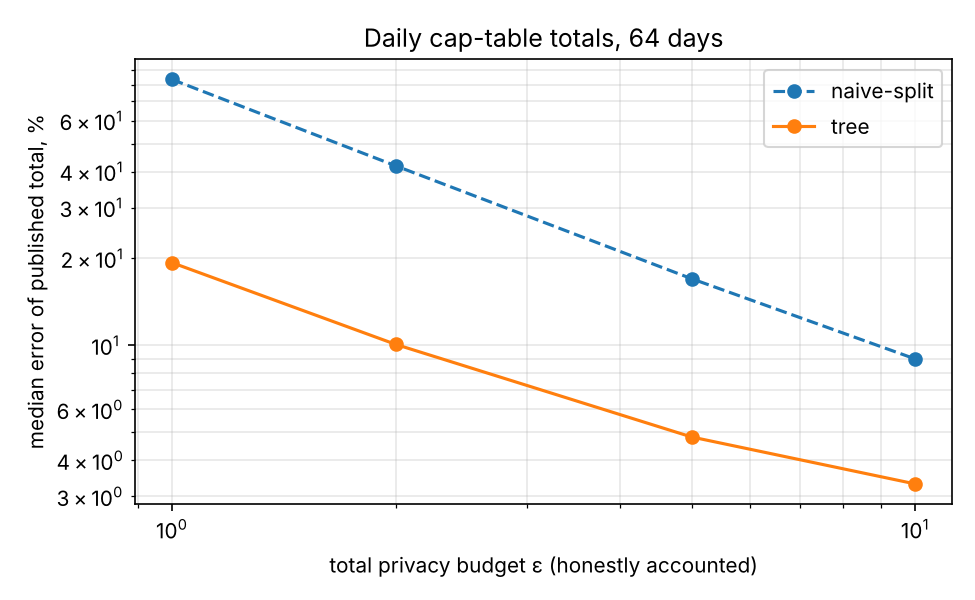
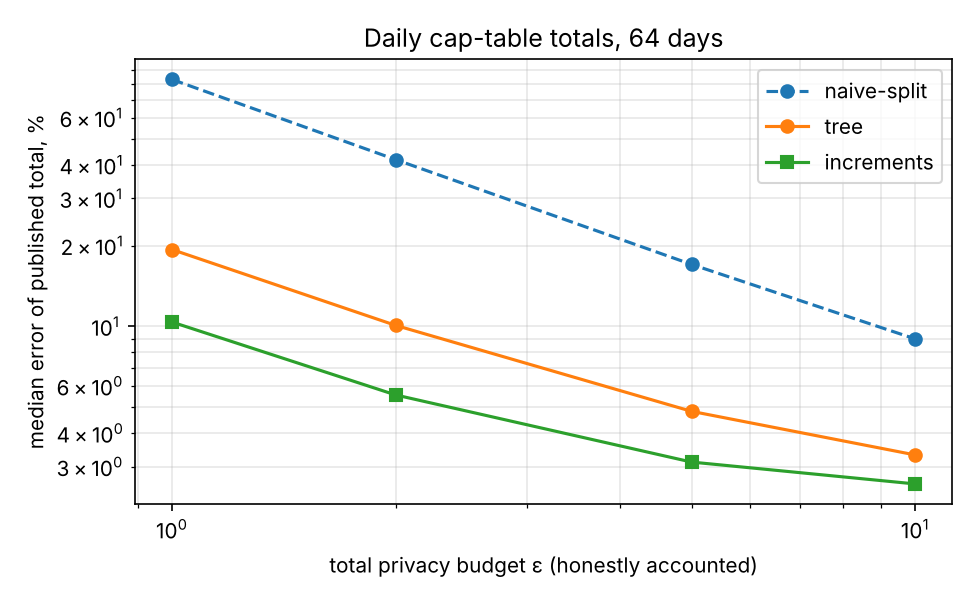
Add increment-noise baseline, horizon sweep and consistent error statistics
- captable: increment_prefix_sums (Lap(C/eps) per daily increment, running sum)
- E6: compare increments with tree and even split; report error in shares
  and against shares issued, since the starting total is public
- E9: stream length 32-2048 days, with shares lost to clipping
- E3: median for both daily and monthly rows, mean reported separately
- E2: 90th-percentile error next to the median
- 4 new tests; README updated with the new findings

Old result columns reproduce exactly (same seeds and draw order).

diff --git a/src/cdp/experiments.py b/src/cdp/experiments.py
@@ -51,7 +51,7 @@ def e2_epsilon_sweep(seeds: int, dealers: int = 3) -> pd.DataFrame:
     for unit in ("trade", "dealer_day"):
         clip = _clip_for(unit)
         for eps in EPSILONS:
-            errs, recs = [], []
+            errs, p90s, recs = [], [], []
             for s in range(seeds):
                 rng = np.random.default_rng(10_000 + s)
                 m = generate(replace(MarketConfig(), dealers=dealers), rng)
@@ -59,27 +59,35 @@ def e2_epsilon_sweep(seeds: int, dealers: int = 3) -> pd.DataFrame:
                 clipped = contrib.sum(axis=1)                                      # (T,)
                 pub = clipped + dp.laplace_noise(clip, eps, rng, size=clipped.shape)  # (T,)
                 truth = m.daily_total                                              # (T,) unclipped
-                errs.append(np.median(np.abs(pub - truth) / truth))
+                rel = np.abs(pub - truth) / truth                                  # (T,)
+                errs.append(np.median(rel))
+                p90s.append(np.quantile(rel, 0.9))
                 est = attacks.coalition_attack(pub, contrib, victim=0)             # (T,)
                 recs.append(attacks.recovery_rate(est, m.dealer_day[:, 0]))       # vs TRUE volume
-            rows.append({"unit": unit, "epsilon": eps, "median_rel_error": np.mean(errs), "victim_recovered": np.mean(recs)})
+            rows.append({"unit": unit, "epsilon": eps, "median_rel_error": np.mean(errs),
+                         "p90_rel_error": np.mean(p90s), "victim_recovered": np.mean(recs)})
     return pd.DataFrame(rows)
 
 
 # --------------------------------------------------------------- E3 granularity
 def e3_granularity(seeds: int, epsilon: float = 1.0) -> pd.DataFrame:
     """Same ε, daily vs monthly release. Monthly sums are ~22x larger; for the trade unit the
-    monthly release uses a larger clip bound (2M), since a month accumulates clipping bias."""
+    monthly release uses a larger clip bound (2M), since a month accumulates clipping bias.
+
+    Both rows report a MEDIAN: daily = median over the 22 days (averaged over markets), monthly =
+    median over markets of the one monthly figure. `mean_rel_error` is the mean of the same errors;
+    for Laplace noise the mean is ~1.44x the median, so never compare a mean with a median."""
     rows = []
     for unit in ("trade", "dealer_day"):
         clip = _clip_for(unit)
-        d_err, m_err = [], []
+        d_err, d_mean, m_err = [], [], []
         for s in range(seeds):
             rng = np.random.default_rng(20_000 + s)
             m = generate(MarketConfig(), rng)
             clipped, truth = dp.clipped_daily_total(m, unit, clip), m.daily_total   # (T,), (T,)
             d_pub = clipped + dp.laplace_noise(clip, epsilon, rng, size=clipped.shape)
             d_err.append(np.median(np.abs(d_pub - truth) / truth))
+            d_mean.append(np.mean(np.abs(d_pub - truth) / truth))
             # monthly: one dealer contributes up to T*clip in dealer-month terms; for "trade" Δ stays clip
             if unit == "trade":
                 m_clip = MONTHLY_TRADE_CLIP
@@ -88,8 +96,8 @@ def e3_granularity(seeds: int, epsilon: float = 1.0) -> pd.DataFrame:
                 m_sum, month_sens = clipped.sum(), clip * m.config.days
             m_pub = m_sum + dp.laplace_noise(month_sens, epsilon, rng)
             m_err.append(abs(m_pub - truth.sum()) / truth.sum())
-        rows.append({"unit": unit, "release": "daily", "median_rel_error": np.mean(d_err)})
-        rows.append({"unit": unit, "release": "monthly", "median_rel_error": np.mean(m_err)})
+        rows.append({"unit": unit, "release": "daily", "median_rel_error": np.mean(d_err), "mean_rel_error": np.mean(d_mean)})
+        rows.append({"unit": unit, "release": "monthly", "median_rel_error": np.median(m_err), "mean_rel_error": np.mean(m_err)})
     return pd.DataFrame(rows)
 
 
@@ -146,18 +154,25 @@ def _publish(mode: str, x: np.ndarray, start: float, eps: float, days: int, rng:
         return truth + dp.laplace_noise(GRANT_CLIP * days, eps, rng, size=truth.shape)
     if mode == "tree":            # honest: binary-tree continual release
         return start + captable.tree_prefix_sums(x, GRANT_CLIP, eps, rng)
+    if mode == "increments":      # honest: noise each day's new shares once, then running sum
+        return start + captable.increment_prefix_sums(x, GRANT_CLIP, eps, rng)
     raise ValueError(mode)
 
 
 def e6_cap_table(seeds: int) -> pd.DataFrame:
     """Daily cap-table totals (64 days). Error of the published total vs share of single-grant days
     whose grant size an attacker recovers within ±10%, with a simple (day-over-day) and a strong
-    (knows all other grants, averages) attack."""
+    (knows all other grants, averages) attack.
+
+    Error is reported three ways, because the 10M starting total is public and inflates the base:
+      median_rel_error       |published - true| / true total
+      median_abs_error       the same error in shares
+      error_vs_issuance      that error in shares / all shares issued during the 64 days"""
     cfg = captable.CapTableConfig()
     rows = []
-    for mode in ("exact", "naive-per-day", "naive-split", "tree"):
+    for mode in ("exact", "naive-per-day", "naive-split", "tree", "increments"):
         for eps in ([1.0] if mode == "exact" else [1.0, 2.0, 5.0, 10.0]):
-            errs, simple, strong = [], [], []
+            errs, abs_errs, issued, simple, strong = [], [], [], [], []
             for s in range(seeds):
                 rng = np.random.default_rng(50_000 + s)
                 daily, one = captable.single_grant_days(cfg, rng)
@@ -165,6 +180,8 @@ def e6_cap_table(seeds: int) -> pd.DataFrame:
                 truth = cfg.initial_shares + np.cumsum(daily)                       # (T,) unclipped
                 pub = _publish(mode, x, cfg.initial_shares, eps, cfg.days, rng, raw=daily)  # (T,)
                 errs.append(np.median(np.abs(pub - truth) / truth))
+                abs_errs.append(np.median(np.abs(pub - truth)))
+                issued.append(daily.sum())
                 diff = attacks.snapshot_diff_attack(pub, cfg.initial_shares)
                 contrib = daily if mode == "exact" else x   # what each grant adds to what was published
                 for t in np.where(one & (daily > 0))[0]:
@@ -177,6 +194,8 @@ def e6_cap_table(seeds: int) -> pd.DataFrame:
                 "eps_claimed": float("inf") if mode == "exact" else eps,
                 "eps_actual": float("inf") if mode == "exact" else (eps * cfg.days if mode == "naive-per-day" else eps),
                 "median_rel_error": np.mean(errs),
+                "median_abs_error": np.mean(abs_errs),
+                "error_vs_issuance": np.mean(abs_errs) / np.mean(issued),
                 "recovered_simple": np.mean(simple),
                 "recovered_strong": np.mean(strong),
             })
@@ -210,6 +229,35 @@ def e7_clipping(seeds: int) -> pd.DataFrame:
             errs.append(np.median(np.abs(pub - truth) / truth))
             bias.append(np.median((truth - clipped) / truth))
         rows.append({"case": "3 dealers, trade unit, eps=1", "clip": C, "median_rel_error": np.mean(errs), "clip_bias": np.mean(bias)})
+    return pd.DataFrame(rows)
+
+
+# --------------------------------------------------------------- E9 horizon
+def e9_horizon(seeds: int, epsilon: float = 5.0) -> pd.DataFrame:
+    """Which honest mechanism for which stream length? Same total ε, same clip bound, T = 32..2048.
+    Also tracks what clipping does to a running total: the cut shares never come back, so the
+    published total drifts further below the true one the longer the feed runs."""
+    rows = []
+    for T in (32, 64, 128, 256, 512, 1024, 2048):
+        cfg = captable.CapTableConfig(days=T)
+        acc = {k: {"rel": [], "abs": []} for k in ("naive-split", "tree", "increments")}
+        issued, cut = [], []
+        for s in range(seeds):
+            rng = np.random.default_rng(60_000 + s)
+            daily, _ = captable.single_grant_days(cfg, rng)
+            x = np.minimum(daily, GRANT_CLIP)
+            truth = cfg.initial_shares + np.cumsum(daily)
+            issued.append(daily.sum())
+            cut.append(daily.sum() - x.sum())
+            for mode in acc:
+                pub = _publish(mode, x, cfg.initial_shares, epsilon, T, rng)
+                acc[mode]["rel"].append(np.median(np.abs(pub - truth) / truth))
+                acc[mode]["abs"].append(np.median(np.abs(pub - truth)))
+        row = {"days": T, "issued_shares": np.mean(issued), "clipped_away_shares": np.mean(cut),
+               "clipped_away_share": np.sum(cut) / np.sum(issued)}
+        for mode, d in acc.items():
+            row[f"{mode}_rel_error"], row[f"{mode}_abs_error"] = np.mean(d["rel"]), np.mean(d["abs"])
+        rows.append(row)
     return pd.DataFrame(rows)
 
 
@@ -259,7 +307,7 @@ def _plot_averaging(df: pd.DataFrame, out: Path) -> None:
 
 def _plot_cap_table(df: pd.DataFrame, out: Path) -> None:
     fig, ax = plt.subplots(figsize=(6.5, 4))
-    for mode, style in (("naive-split", "o--"), ("tree", "o-")):
+    for mode, style in (("naive-split", "o--"), ("tree", "o-"), ("increments", "s-")):
         g = df[df.mechanism == mode]
         ax.plot(g.eps_claimed, g.median_rel_error * 100, style, label=mode)
     ax.set(xscale="log", yscale="log", xlabel="total privacy budget ε (honestly accounted)",
@@ -268,6 +316,21 @@ def _plot_cap_table(df: pd.DataFrame, out: Path) -> None:
     ax.grid(alpha=0.3, which="both")
     fig.tight_layout()
     fig.savefig(out / "fig4_cap_table.png", dpi=150)
+    plt.close(fig)
+
+
+def _plot_horizon(df: pd.DataFrame, out: Path) -> None:
+    fig, ax = plt.subplots(figsize=(6.5, 4))
+    for mode, style in (("naive-split", "o--"), ("tree", "o-"), ("increments", "s-")):
+        ax.plot(df.days, df[f"{mode}_abs_error"] / 1e3, style, label=mode)
+    ax.plot(df.days, df.clipped_away_shares / 1e3, "k:", label="shares cut by clipping (bias)")
+    ax.set(xscale="log", yscale="log", xlabel="days in the stream", ylabel="thousand shares",
+           title="Cap table, ε = 5: median error of the running total")
+    ax.set_xticks(df.days, [str(d) for d in df.days])
+    ax.legend()
+    ax.grid(alpha=0.3, which="both")
+    fig.tight_layout()
+    fig.savefig(out / "fig5_horizon.png", dpi=150)
     plt.close(fig)
 
 
@@ -281,6 +344,7 @@ def run_all(out: Path, seeds: int) -> dict[str, pd.DataFrame]:
         "e5_averaging": e5_averaging(seeds),
         "e6_cap_table": e6_cap_table(seeds),
         "e7_clipping": e7_clipping(seeds),
+        "e9_horizon": e9_horizon(min(seeds, 100)),
     }
     res["e8_sensitivity_market"], res["e8_sensitivity_cap_table"] = sensitivity.e8_sensitivity(min(seeds, 100))
     for name, df in res.items():
@@ -289,6 +353,7 @@ def run_all(out: Path, seeds: int) -> dict[str, pd.DataFrame]:
     _plot_dealers(res["e4_dealers"], out)
     _plot_averaging(res["e5_averaging"], out)
     _plot_cap_table(res["e6_cap_table"], out)
+    _plot_horizon(res["e9_horizon"], out)
     return res
 
 
@@ -297,7 +362,7 @@ def main() -> None:
     ap.add_argument("--out", default="results")
     ap.add_argument("--seeds", type=int, default=200)
     args = ap.parse_args()
-    pd.set_option("display.width", 120)
+    pd.set_option("display.width", 200)
     for name, df in run_all(Path(args.out), args.seeds).items():
         print(f"\n== {name}\n{df.round(4).to_string(index=False)}")
 

diff --git a/tests/test_cdp.py b/tests/test_cdp.py
@@ -105,3 +105,35 @@ def test_sensitivity_runs_and_scale_invariant():
     base = m[m.scenario == "base"].iloc[0]
     big = m[m.scenario == "large trades (median 1M)"].iloc[0]
     assert abs(base.trade_err - big.trade_err) < 1e-9  # same seeds, everything scales together
+
+
+def test_increment_prefix_sums_exact_without_noise():
+    from cdp.captable import increment_prefix_sums
+    x = np.arange(1.0, 38.0)
+    out = increment_prefix_sums(x, sensitivity=1.0, epsilon=1e12, rng=np.random.default_rng(7))
+    assert np.allclose(out, np.cumsum(x), atol=1e-6)
+
+
+def test_increment_noise_grows_like_sqrt_t():
+    from cdp.captable import increment_prefix_sums
+    rng = np.random.default_rng(8)
+    runs = np.array([increment_prefix_sums(np.zeros(64), 1.0, 1.0, rng) for _ in range(4000)])  # (4000, 64)
+    assert runs[:, 0].std() == pytest.approx(np.sqrt(2 * 1), rel=0.1)    # day 1:  √2·b
+    assert runs[:, 63].std() == pytest.approx(np.sqrt(2 * 64), rel=0.1)  # day 64: √(2·64)·b
+
+
+def test_short_stream_increments_beat_tree_long_stream_tree_wins():
+    from cdp.captable import increment_prefix_sums, tree_prefix_sums
+    rng = np.random.default_rng(9)
+    def mean_abs(fn, T, n):
+        return np.mean([np.abs(fn(np.zeros(T), 1.0, 1.0, rng)).mean() for _ in range(n)])
+    assert mean_abs(increment_prefix_sums, 64, 300) < mean_abs(tree_prefix_sums, 64, 60)
+    assert mean_abs(increment_prefix_sums, 4096, 100) > mean_abs(tree_prefix_sums, 4096, 15)
+
+
+def test_e3_reports_one_statistic_for_both_windows():
+    from cdp.experiments import e3_granularity
+    df = e3_granularity(seeds=200).set_index(["unit", "release"])
+    daily, monthly = df.loc[("dealer_day", "daily")], df.loc[("dealer_day", "monthly")]
+    # protecting a dealer's month scales Δ and the total by the same 22x: relative error is unchanged
+    assert monthly.median_rel_error == pytest.approx(daily.median_rel_error, rel=0.2)

diff --git a/src/cdp/captable.py b/src/cdp/captable.py
@@ -9,6 +9,8 @@ Attack: the day-over-day difference of published totals is the size of that day'
 Defences compared, all for the privacy unit "one grant" (clipped at C shares):
   naive-per-day  each daily total + Lap(C/ε)       -> every snapshot spends ε: T days cost T·ε in total
   naive-split    each daily total + Lap(C·T/ε)     -> honest total ε, but noise grows with T
+  increments     each day's NEW shares + Lap(C/ε), then a running sum
+                                                   -> honest total ε, noise grows with √T
   tree           binary-tree continual release     -> honest total ε, noise grows with log T
                  (Dwork, Naor, Pitassi, Rothblum 2010; Chan, Shi, Song 2011)
 """
@@ -77,3 +79,14 @@ def tree_prefix_sums(x: np.ndarray, sensitivity: float, epsilon: float, rng: np.
                 start += size
         out[t] = acc
     return out
+
+
+def increment_prefix_sums(x: np.ndarray, sensitivity: float, epsilon: float, rng: np.random.Generator) -> np.ndarray:
+    """Input perturbation: noise every daily increment once, then take the running sum.
+
+    One grant changes exactly one increment x[t] by at most Δ, so Lap(Δ/ε) per increment makes the
+    whole stream cost ε. The running sum at day t carries t independent noises: std = √(2t)·Δ/ε.
+    Better than the tree for short streams, worse for long ones (√T against log^1.5 T).
+        x shape (T,) -> returns shape (T,)
+    """
+    return np.cumsum(x + rng.laplace(0.0, sensitivity / epsilon, size=x.shape[0]))

diff --git a/README.md b/README.md
@@ -12,8 +12,8 @@ enforces the privacy budget on-ledger (Dev Fund RFP *Public verifiability*).
 
 ```bash
 pip install -e ".[dev]"
-pytest                                            # 13 tests
-PYTHONPATH=src python -m cdp.experiments --out results --seeds 200   # ~6 s
+pytest                                            # 17 tests
+PYTHONPATH=src python -m cdp.experiments --out results --seeds 200   # ~15 s
 ```
 
 ## Setup
@@ -38,11 +38,13 @@ exact volume on **~49%** of days (the days only one other dealer traded).
 
 **2. "ε = 1" means different protection depending on the privacy unit.** At ε = 1, daily releases, 3 dealers:
 
-| unit | error of published total | victim days recovered within ±10% |
-|---|---|---|
-| none (exact) | 0% | 100% |
-| `trade` | **6.3%** | 42% |
-| `dealer_day` | 43% | **5.7%** |
+| unit | median error of published total | 90th-percentile error | victim days recovered within ±10% |
+|---|---|---|---|
+| none (exact) | 0% | 0% | 100% |
+| `trade` | **6.3%** | 16% | 42% |
+| `dealer_day` | 43% | 133% | **5.7%** |
+
+The error is a median over days: one day in ten is worse than the 90th-percentile column.
 
 Plotted as error against leakage, both units trace the **same curve**: a dealer's exposure
 depends only on the noise scale relative to its volume. Trade-level ε = 1 (Δ = 1M) adds the same
@@ -58,7 +60,9 @@ against the true, unclipped totals.
 ![fig2](results/fig2_market_size.png)
 
 **4. Coarser releases help, if the clip bound is retuned.** Same ε = 1, trade level:
-daily total 6.1% error → monthly total **0.9%** with a 2M clip bound (a month accumulates clipping bias).
+daily total 6.1% median error → monthly total **0.8%** with a 2M clip bound (a month accumulates clipping bias).
+Protecting a dealer's whole month does not help: Δ and the total both grow 22x, so the median error stays
+about where it was (36% monthly against 42% daily; the two agree within sampling noise).
 
 **5. Without a budget, noise can be averaged away.** Re-querying the same total 100 times
 cuts the attacker's error from ~960k to ~114k USD (√k law). An accountant with Σε ≤ 5 blocks
@@ -73,10 +77,31 @@ Adding Lap(C/ε) to every snapshot *looks* cheap (2.4% error at "ε = 5") but ea
 every later snapshot, so the real cost is 64·ε, and an attacker who averages snapshots recovers
 30% of grants. With the budget honestly accounted (ε = 5 over 64 days):
 
-| mechanism | error of published total | grants recovered (strong attack) |
-|---|---|---|
-| noise split evenly over days | 17.0% | 1.6% |
-| **binary-tree mechanism** | **4.8%** | 2.1% |
+| mechanism | error vs total | error in shares | error vs shares issued | grants recovered (day-over-day / strong attack) |
+|---|---|---|---|---|
+| noise split evenly over days | 17.0% | 1.84M | 118% | 0.2% / 1.6% |
+| binary-tree mechanism | 4.8% | 529k | 34% | 1.9% / 2.1% |
+| **noise on each day's new shares** | **3.1%** | **347k** | **22%** | 17% / 4.4% |
+
+The simplest honest mechanism wins on a 64-day stream: a grant touches one daily increment, so Lap(C/ε)
+on each increment costs ε in total and the running sum carries √t noises instead of the tree's
+log-many large ones. It is also the least noisy, so the day-over-day attack recovers more grants (17%):
+same ε, a tighter mechanism. The error is quoted three ways because the 10M starting total is public:
+4.8% of the total is a third of everything issued in the period.
+
+**6b. Which mechanism for which stream length (E9, ε = 5).** Median error of the running total, in shares:
+
+| days | even split | tree | increments | shares cut by the 200k clip |
+|---|---|---|---|---|
+| 32 | 956k | 433k | **263k** | 308k |
+| 64 | 1.87M | 570k | **406k** | 546k |
+| 256 | 7.3M | 1.20M | 1.15M | 2.0M |
+| 1024 | 28.6M | 4.6M | 4.4M | 8.9M |
+
+In pure noise the tree overtakes increment noise only somewhere past 1,000 days. Long before that the
+error is driven by clipping: about a third of issued shares exceed the bound, they are never added back,
+and a running total drifts further below the truth the longer the feed runs. For a supply figure this is
+the real limit of the approach, not the choice of mechanism.
 
 **7. The clip bound trades bias against noise.** Cap table, tree, ε = 5: bound 50k → 5.4% error,
 100k → 4.5%, 200k → 4.8%, 1M → 19%. Choose it from public or earlier-period data, never from the
@@ -111,8 +136,9 @@ src/cdp/
   data.py         synthetic market generator; shapes (T, D)
   dp.py           clipping, Laplace mechanism, PrivacyAccountant
   attacks.py      coalition, sparse-insider, averaging and snapshot attacks
-  captable.py     cap-table model + binary-tree continual release
-  experiments.py  E1–E5 → CSV + figures in results/
+  captable.py     cap-table model + continual release (binary tree, increment noise)
+  sensitivity.py  E8 robustness scenarios
+  experiments.py  E1–E7, E9 → CSV + figures in results/
 tests/test_cdp.py
 ```
 
